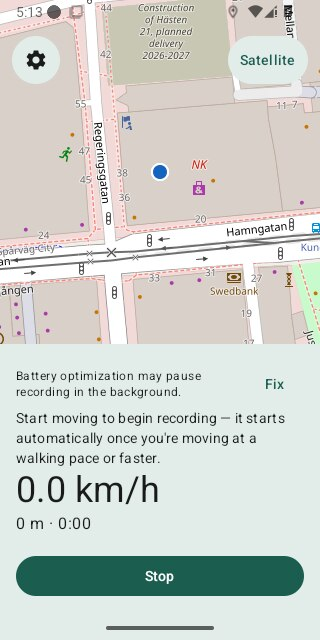
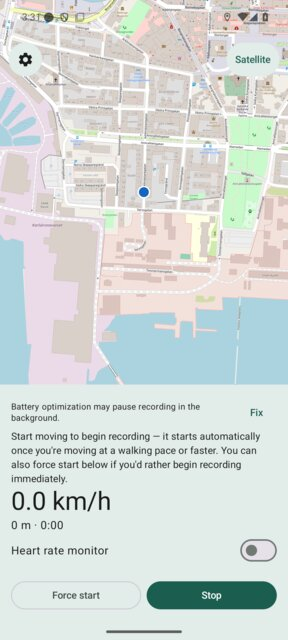
fix: make movement detection more sensitive and add a force-start override (#144)
Waiting for movement (specs/tracking.md#start-gating) only confirmed
movement via net displacement from the initial fix - a path that curves
back toward the start (pacing at a trailhead, walking around a parked
car) could keep that displacement small forever despite real ground
being covered. MovementGate now also confirms movement once fix-to-fix
distance accumulates past ~30m, regardless of direction.

Also adds a Force start control, shown in place of Pause while waiting
for movement, to skip the wait entirely.

Fixes #136

diff --git a/android/app/src/main/java/com/github/tomasbjerre/wisp/location/MovementGate.kt b/android/app/src/main/java/com/github/tomasbjerre/wisp/location/MovementGate.kt
@@ -14,13 +14,18 @@ import com.github.tomasbjerre.wisp.util.GeoUtils
  */
 class MovementGate {
     private var anchor: LocationFix? = null
+    private var previousFix: LocationFix? = null
+    private var cumulativeDistanceMeters = 0.0
 
     /**
      * Returns true the first time [fix] implies movement at or above
      * [MIN_WALKING_SPEED_MPS] relative to the first fix ever passed in (the
-     * anchor). The anchor is fixed, not the immediately preceding fix, so a
-     * short burst of GPS jitter across a couple of samples can't accumulate
-     * into a false positive the way comparing only consecutive fixes could.
+     * anchor), OR once enough real ground ([MIN_CUMULATIVE_DISTANCE_METERS])
+     * has been covered fix-to-fix since then, regardless of direction. The
+     * anchor-relative check alone misses a path that curves back toward the
+     * start (pacing at a trailhead, walking around a parked car) — net
+     * displacement from a fixed anchor can stay small even after real
+     * walking, so the cumulative check catches that case (see #136).
      *
      * Deliberately always computed from position + time, never from
      * [LocationFix.speedMps] (the platform's own instantaneous speed
@@ -34,12 +39,23 @@ class MovementGate {
         val previous = anchor
         if (previous == null) {
             anchor = fix
+            previousFix = fix
             return false
         }
-        val movedMeters = GeoUtils.haversineMeters(previous.latitude, previous.longitude, fix.latitude, fix.longitude)
+        val movedFromAnchorMeters =
+            GeoUtils.haversineMeters(previous.latitude, previous.longitude, fix.latitude, fix.longitude)
         val elapsedSeconds = (fix.timestampMillis - previous.timestampMillis) / 1000.0
-        val impliedSpeedMps = if (elapsedSeconds > 0) movedMeters / elapsedSeconds else 0.0
-        return impliedSpeedMps >= MIN_WALKING_SPEED_MPS
+        val impliedSpeedMps = if (elapsedSeconds > 0) movedFromAnchorMeters / elapsedSeconds else 0.0
+
+        val lastFix = previousFix!!
+        val movedFromPreviousMeters =
+            GeoUtils.haversineMeters(lastFix.latitude, lastFix.longitude, fix.latitude, fix.longitude)
+        // Ignore GPS-jitter-sized steps, same threshold TrackRecorder uses, so standing
+        // still never accumulates into a false positive.
+        if (movedFromPreviousMeters >= MIN_STEP_METERS) cumulativeDistanceMeters += movedFromPreviousMeters
+        previousFix = fix
+
+        return impliedSpeedMps >= MIN_WALKING_SPEED_MPS || cumulativeDistanceMeters >= MIN_CUMULATIVE_DISTANCE_METERS
     }
 
     companion object {
@@ -49,5 +65,11 @@ class MovementGate {
          * quickly without requiring anything faster than walking.
          */
         const val MIN_WALKING_SPEED_MPS = 0.8
+
+        /** Same jitter floor as [TrackRecorder.MIN_MOVEMENT_METERS]. */
+        const val MIN_STEP_METERS = 3.0
+
+        /** See specs/tracking.md#start-gating. */
+        const val MIN_CUMULATIVE_DISTANCE_METERS = 30.0
     }
 }

diff --git a/android/app/src/main/java/com/github/tomasbjerre/wisp/location/TrackingService.kt b/android/app/src/main/java/com/github/tomasbjerre/wisp/location/TrackingService.kt
@@ -73,6 +73,7 @@ class TrackingService : LifecycleService() {
         super.onStartCommand(intent, flags, startId)
         when (intent?.action) {
             ACTION_START -> start()
+            ACTION_FORCE_START -> forceStart()
             ACTION_PAUSE -> pause()
             ACTION_RESUME -> resume()
             ACTION_STOP -> stop()
@@ -320,6 +321,21 @@ class TrackingService : LifecycleService() {
             return true
         }
 
+        confirmMovementStarted()
+        return false
+    }
+
+    /**
+     * See specs/tracking.md#start-gating: lets the user skip waiting for movement to be
+     * detected automatically, e.g. when GPS is slow to acquire a usable fix. A no-op once
+     * movement is already confirmed (or if a session isn't waiting for it at all).
+     */
+    private fun forceStart() {
+        if (!_state.value.isWaitingForMovement) return
+        confirmMovementStarted()
+    }
+
+    private fun confirmMovementStarted() {
         recordingStartElapsedRealtime = SystemClock.elapsedRealtime()
         _state.update { it.copy(isWaitingForMovement = false) }
         startTicker()
@@ -327,7 +343,6 @@ class TrackingService : LifecycleService() {
         // taken before movement is confirmed don't count.
         stepCounterTracker.start(stepRecorder::onStepCounterChanged)
         startHeartRateMonitor()
-        return false
     }
 
     /** See specs/heart-rate.md#connecting: only when the user has turned the setting on. */
@@ -395,6 +410,7 @@ class TrackingService : LifecycleService() {
         private const val NOTIFICATION_ID = 1
 
         const val ACTION_START = "com.github.tomasbjerre.wisp.action.START"
+        const val ACTION_FORCE_START = "com.github.tomasbjerre.wisp.action.FORCE_START"
         const val ACTION_PAUSE = "com.github.tomasbjerre.wisp.action.PAUSE"
         const val ACTION_RESUME = "com.github.tomasbjerre.wisp.action.RESUME"
         const val ACTION_STOP = "com.github.tomasbjerre.wisp.action.STOP"
@@ -408,6 +424,8 @@ class TrackingService : LifecycleService() {
         ) = Intent(context, TrackingService::class.java).setAction(action)
 
         fun start(context: Context) = context.startForegroundService(intent(context, ACTION_START))
+
+        fun forceStart(context: Context) = context.startService(intent(context, ACTION_FORCE_START))
 
         fun pause(context: Context) = context.startService(intent(context, ACTION_PAUSE))
 

diff --git a/android/app/src/main/java/com/github/tomasbjerre/wisp/ui/tracking/TrackingScreen.kt b/android/app/src/main/java/com/github/tomasbjerre/wisp/ui/tracking/TrackingScreen.kt
@@ -197,7 +197,8 @@ private fun TrackingStatsPanel(
             if (state.isWaitingForMovement) {
                 Text(
                     "Start moving to begin recording — it starts automatically once " +
-                        "you're moving at a walking pace or faster.",
+                        "you're moving at a walking pace or faster. You can also force " +
+                        "start below if you'd rather begin recording immediately.",
                     style = MaterialTheme.typography.bodyMedium,
                 )
             }
@@ -347,8 +348,16 @@ private fun TrackingControls(
         modifier = Modifier.fillMaxWidth().padding(top = 16.dp),
         horizontalArrangement = Arrangement.spacedBy(8.dp),
     ) {
-        // Nothing to pause yet while waiting for movement — see specs/tracking.md#start-gating.
-        if (!isWaitingForMovement) {
+        // Nothing to pause yet while waiting for movement — offer to skip the wait
+        // instead, see specs/tracking.md#start-gating.
+        if (isWaitingForMovement) {
+            OutlinedButton(
+                onClick = { TrackingService.forceStart(context) },
+                modifier = Modifier.weight(1f),
+            ) {
+                Text("Force start")
+            }
+        } else {
             OutlinedButton(
                 onClick = { if (isPaused) TrackingService.resume(context) else TrackingService.pause(context) },
                 modifier = Modifier.weight(1f),

diff --git a/android/app/src/test/java/com/github/tomasbjerre/wisp/location/MovementGateTest.kt b/android/app/src/test/java/com/github/tomasbjerre/wisp/location/MovementGateTest.kt
@@ -51,6 +51,30 @@ class MovementGateTest {
     }
 
     @Test
+    fun `a path that loops back toward the anchor still confirms movement once enough ground is covered`() {
+        // Regression test for #136: walking back and forth near the start (e.g. pacing
+        // at a trailhead, or a meandering path) keeps net displacement from the fixed
+        // anchor small forever, even though real ground is being covered. Each step here
+        // (~3.3 m every 5 s, ~0.66 m/s) stays below walking pace on its own, whether
+        // measured from the anchor or from the previous fix, so only the cumulative
+        // distance check can confirm movement.
+        val gate = MovementGate()
+        val pointA = 59.00000
+        val pointB = 59.00003
+
+        gate.hasStartedMoving(fix(lat = pointA, lon = 18.0, t = 0))
+
+        var startedMoving = false
+        for (step in 1..9) {
+            val lat = if (step % 2 == 1) pointB else pointA
+            startedMoving = gate.hasStartedMoving(fix(lat = lat, lon = 18.0, t = step * 5_000L))
+            if (step < 9) assertThat(startedMoving).describedAs("step $step").isFalse()
+        }
+
+        assertThat(startedMoving).isTrue()
+    }
+
+    @Test
     fun `distance is measured from the fixed anchor, not the previous fix`() {
         val gate = MovementGate()
         gate.hasStartedMoving(fix(lat = 59.00000, lon = 18.00000, t = 0, speedMps = null))

diff --git a/specs/tracking.md b/specs/tracking.md
@@ -45,6 +45,19 @@ brief speed spike well above walking pace (GPS multipath/signal noise,
 not real movement), which started sessions with zero actual displacement
 when this gate trusted it.
 
+Movement can also be confirmed without ever reaching that pace relative
+to the first position: if a person's path curves back toward where they
+started (pacing at a trailhead, walking around a parked car), net
+displacement from that first fix can stay small even while real ground
+is being covered. To catch that case, movement is also confirmed once
+the sum of fix-to-fix movement since the first fix reaches roughly 30
+meters, regardless of direction — small, GPS-jitter-sized steps (a few
+meters or less) aren't counted toward that sum, so standing still never
+accumulates into a false positive.
+
+A user who doesn't want to wait for either of the above can skip it —
+see [Force start](#force-start).
+
 This gating applies only to a session's initial Start — resuming after
 Pause does not re-require movement, since the user has already
 demonstrated they're active.
@@ -54,6 +67,16 @@ discarded entirely rather than saved — nothing meaningful was recorded
 (no points, zero distance and duration), so saving it would only add a
 broken-looking blank entry to history. The user returns to Home, not to
 that session's Detail screen.
+
+### Force start
+
+While waiting for movement, a **Force start** control (see
+[Tracking](ui-flows.md#2-tracking-active-recording)) lets the user skip
+both checks above and begin recording immediately — e.g. GPS is slow to
+confirm movement, or they'd simply rather not wait. It has no effect once
+movement has already been confirmed (or before a session exists at all),
+and does not affect [auto-pause](#auto-pause), which only ever applies
+once recording has actually started.
 
 ## Auto-pause
 

diff --git a/specs/ui-flows.md b/specs/ui-flows.md
@@ -86,10 +86,15 @@ screen while recording.
 - A **Pause**/**Continue** control (labeled Continue while paused) and a
   **Stop** control, both visible together at all times once recording has
   actually started — recording or paused, it's always exactly these two
-  controls, no intermediate confirmation step. While waiting for
-  movement, only **Stop** is shown (there's nothing to pause yet). Also
-  flips to paused on its own after a sustained stop (see
-  [Tracking](tracking.md#auto-pause)) — same controls either way.
+  controls, no intermediate confirmation step. Also flips to paused on
+  its own after a sustained stop (see [Tracking](tracking.md#auto-pause))
+  — same controls either way.
+- While waiting for movement, **Pause** is replaced by **Force start**
+  (see [Tracking](tracking.md#force-start)) — **Stop** stays in its
+  place, so it's always exactly two controls regardless of state. A line
+  of text above the controls explains that recording starts
+  automatically once moving, and that Force start begins it immediately
+  instead.
 - Tapping Stop finalizes the session immediately and navigates to that
   session's Detail screen — unless movement was never confirmed (see
   [Tracking](tracking.md#start-gating)), in which case the session is

diff --git a/docs/user-manual.md b/docs/user-manual.md
@@ -74,7 +74,9 @@ short steps first:
    Start, the moments spent fumbling with your phone or walking to the
    start line would count as part of your activity. Once you're actually
    moving at a walking pace or faster, recording begins automatically —
-   no need to tap anything.
+   no need to tap anything. Don't want to wait? Tap **Force start**,
+   shown in place of Pause during this step, to begin recording right
+   away.
 
 Once recording is underway, the screen shows your route being drawn live
 on the map, along with your current speed, distance, and elapsed time:
